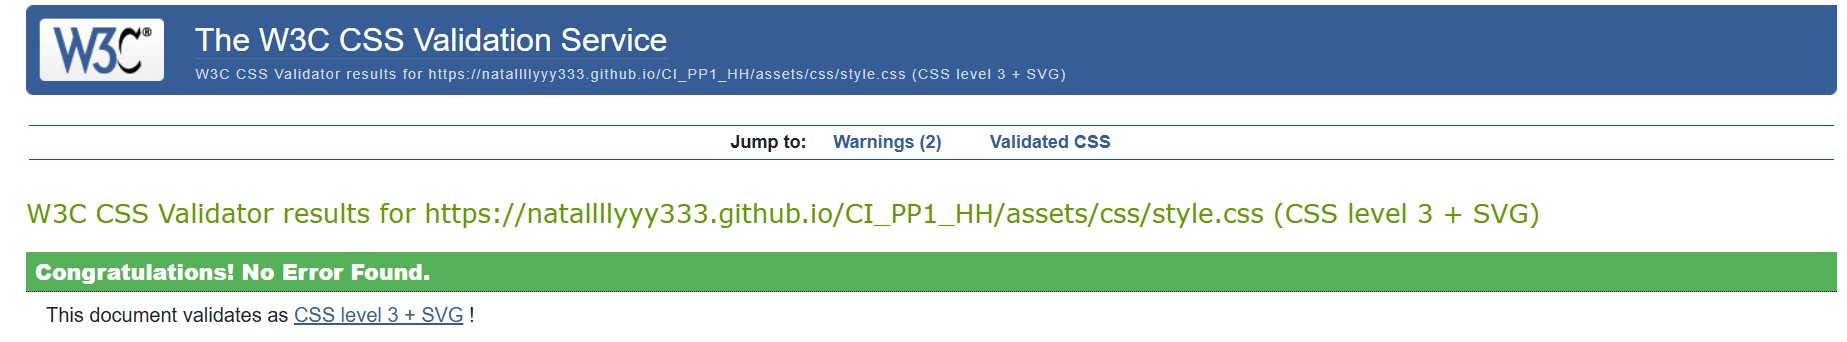
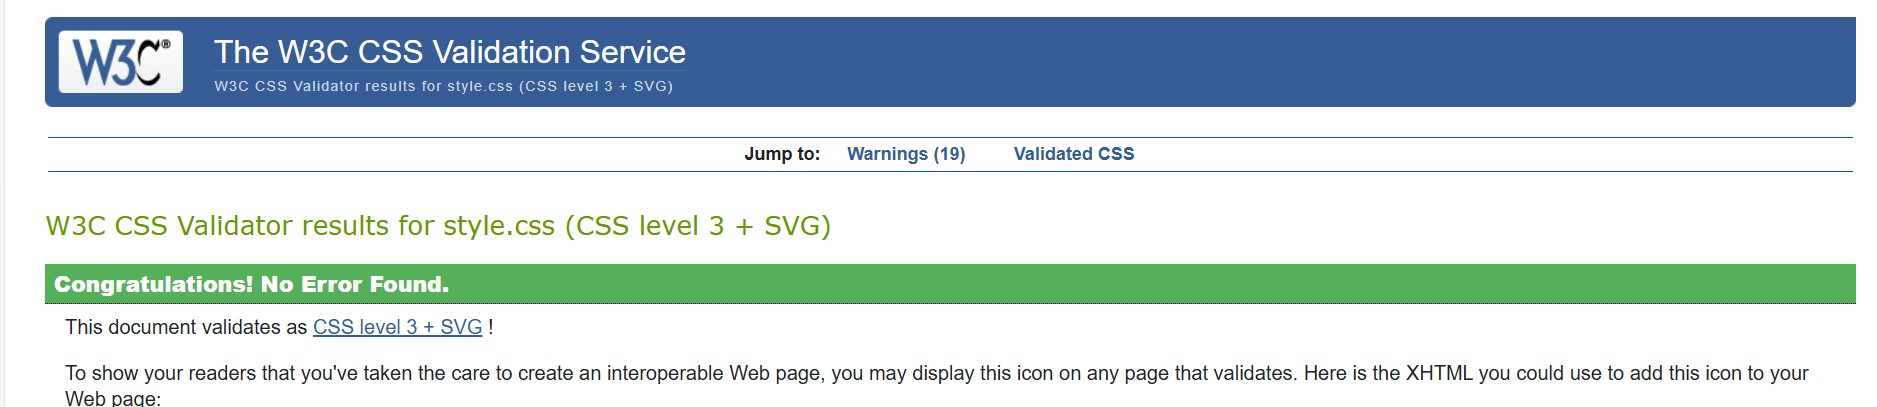
add all to commit

diff --git a/README_History.md b/README_History.md
@@ -519,12 +519,16 @@ The W3C Markup Validation Service was used to validate the HTML of the website. 
 
 ### CSS Validation
 The W3C Jigsaw CSS Validation Service was used to validate the CSS of the website.
-All pages pass with no errors no warnings to show.
-<details><summary>whole page</summary>
-<img src="docs/validation/validation-css-whole-page.jpg">
-</details>
+Passes with no errors.
+Some warnings related to:
+- Vendor-specific prefixes (e.g., -webkit-image-set)
+- Deprecated properties (e.g., clip)
+- Non-standard pseudo-elements (e.g., ::-webkit-media-controls-panel)
 <details><summary>style.css</summary>
-<img src="./docs/validation/">
+<img src="./docs/validation/validation-css-style.jpg">
+</details>
+<details><summary>all.min.css</summary>
+<img src="./docs/validation/validation-all_min_css-style.jpg">
 </details>
 
 ### Accessibility
